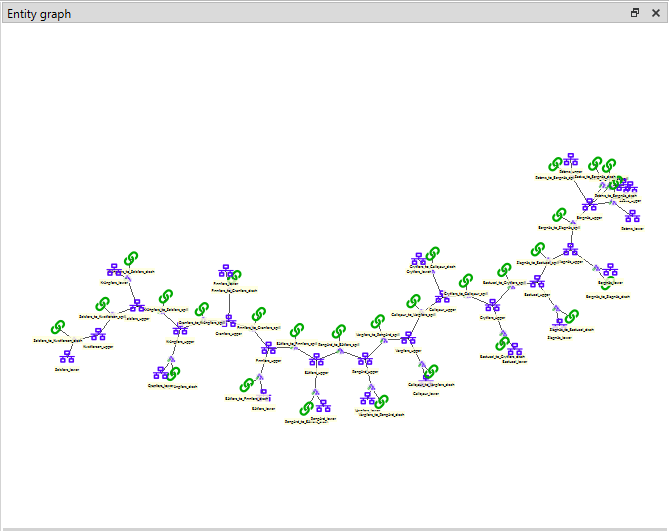
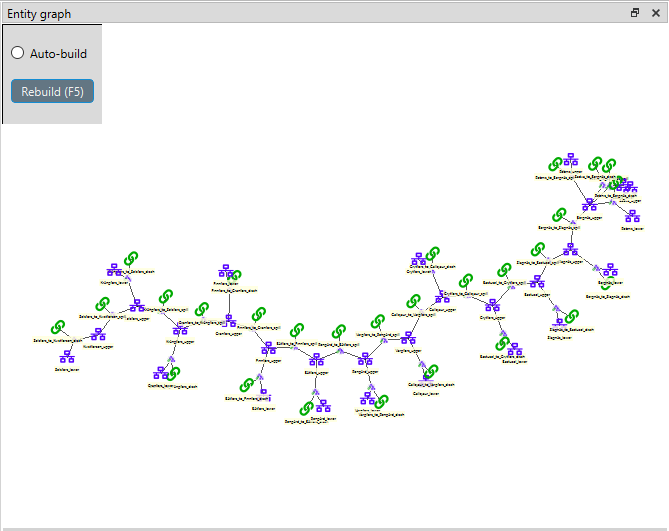
Update documentation and changelog regarding auto-build
Re #2802

Changed region(s): [[0.0, 0.0301, 0.1495, 0.2411]]

diff --git a/docs/source/spine_db_editor/viewing_data.rst b/docs/source/spine_db_editor/viewing_data.rst
@@ -82,11 +82,15 @@ Building the graph
 ******************
 
 The entities included in the graph depend on the selections in **Entity Tree**, **Scenario Tree** and **Alternative**.
-The graph is built every time the selections in any of these trees changes. These selections can also be combined. This
-enables for example the inspection of which entities from a specific entity class are included in a certain scenario.
-This can be done by selecting the scenario and the entity class at once. If selections form **Scenario Tree** or
-**Alternative** are present, entities in the graph may get highlighted in certain ways. This is to provide additional
-information about why the entities are shown in the graph. More on this in the next section.
+These selections can also be combined. This enables for example the inspection of which entities from a specific
+entity class are included in a certain scenario. This can be done by selecting the scenario and the entity class at
+once. If selections form **Scenario Tree** or **Alternative** are present, entities in the graph may get highlighted
+in certain ways. This is to provide additional information about why the entities are shown in the graph. More on this
+in the next section.
+
+If the auto-build is enabled, the graph will be built every time the selections in any of these trees changes.
+Otherwise the graph has to be built manually by clicking the **Rebuild** button or by pressing **F5**. Auto-build
+can be also toggled by pressing **Ctrl+F5**.
 
 How to use the **Entity Tree** selections to build the graph:
 
@@ -184,6 +188,7 @@ The context menu has the following options:
 - **Auto-expand entities** If enabled, the graph will also include entities where the selections are members besides
   just the selections. if disabled, the graph will only show the selected entities.
 - **Merge databases** Whether to merge the databases or not.
+- **Auto-build** Toggles whether the graph is built every time tree selections change.
 - **Snap entities to grid** makes it so that the placement of the entities can't be arbitrary anymore but
   instead they can only lay on a grid.
 - **Max. entity dimension count** defines a cutoff for the number of dimensions an entity can have and still be drawn.

diff --git a/CHANGELOG.md b/CHANGELOG.md
@@ -12,6 +12,7 @@ The format is based on [Keep a Changelog](http://keepachangelog.com/en/1.0.0/)
 - Native kernel (i.e. python3 for Python) can now be used in the Detached Console or in Tool execution.
 - [Bundled App] **Embedded Python** now includes pip.
 - Graph view in database editor now also supports filtering by alternative and scenario tree selections.
+- Option to disable auto-build in entity graph.
 - Mapping Name source type in importer.
 - Importer has now an option to import entity alternatives.
 
